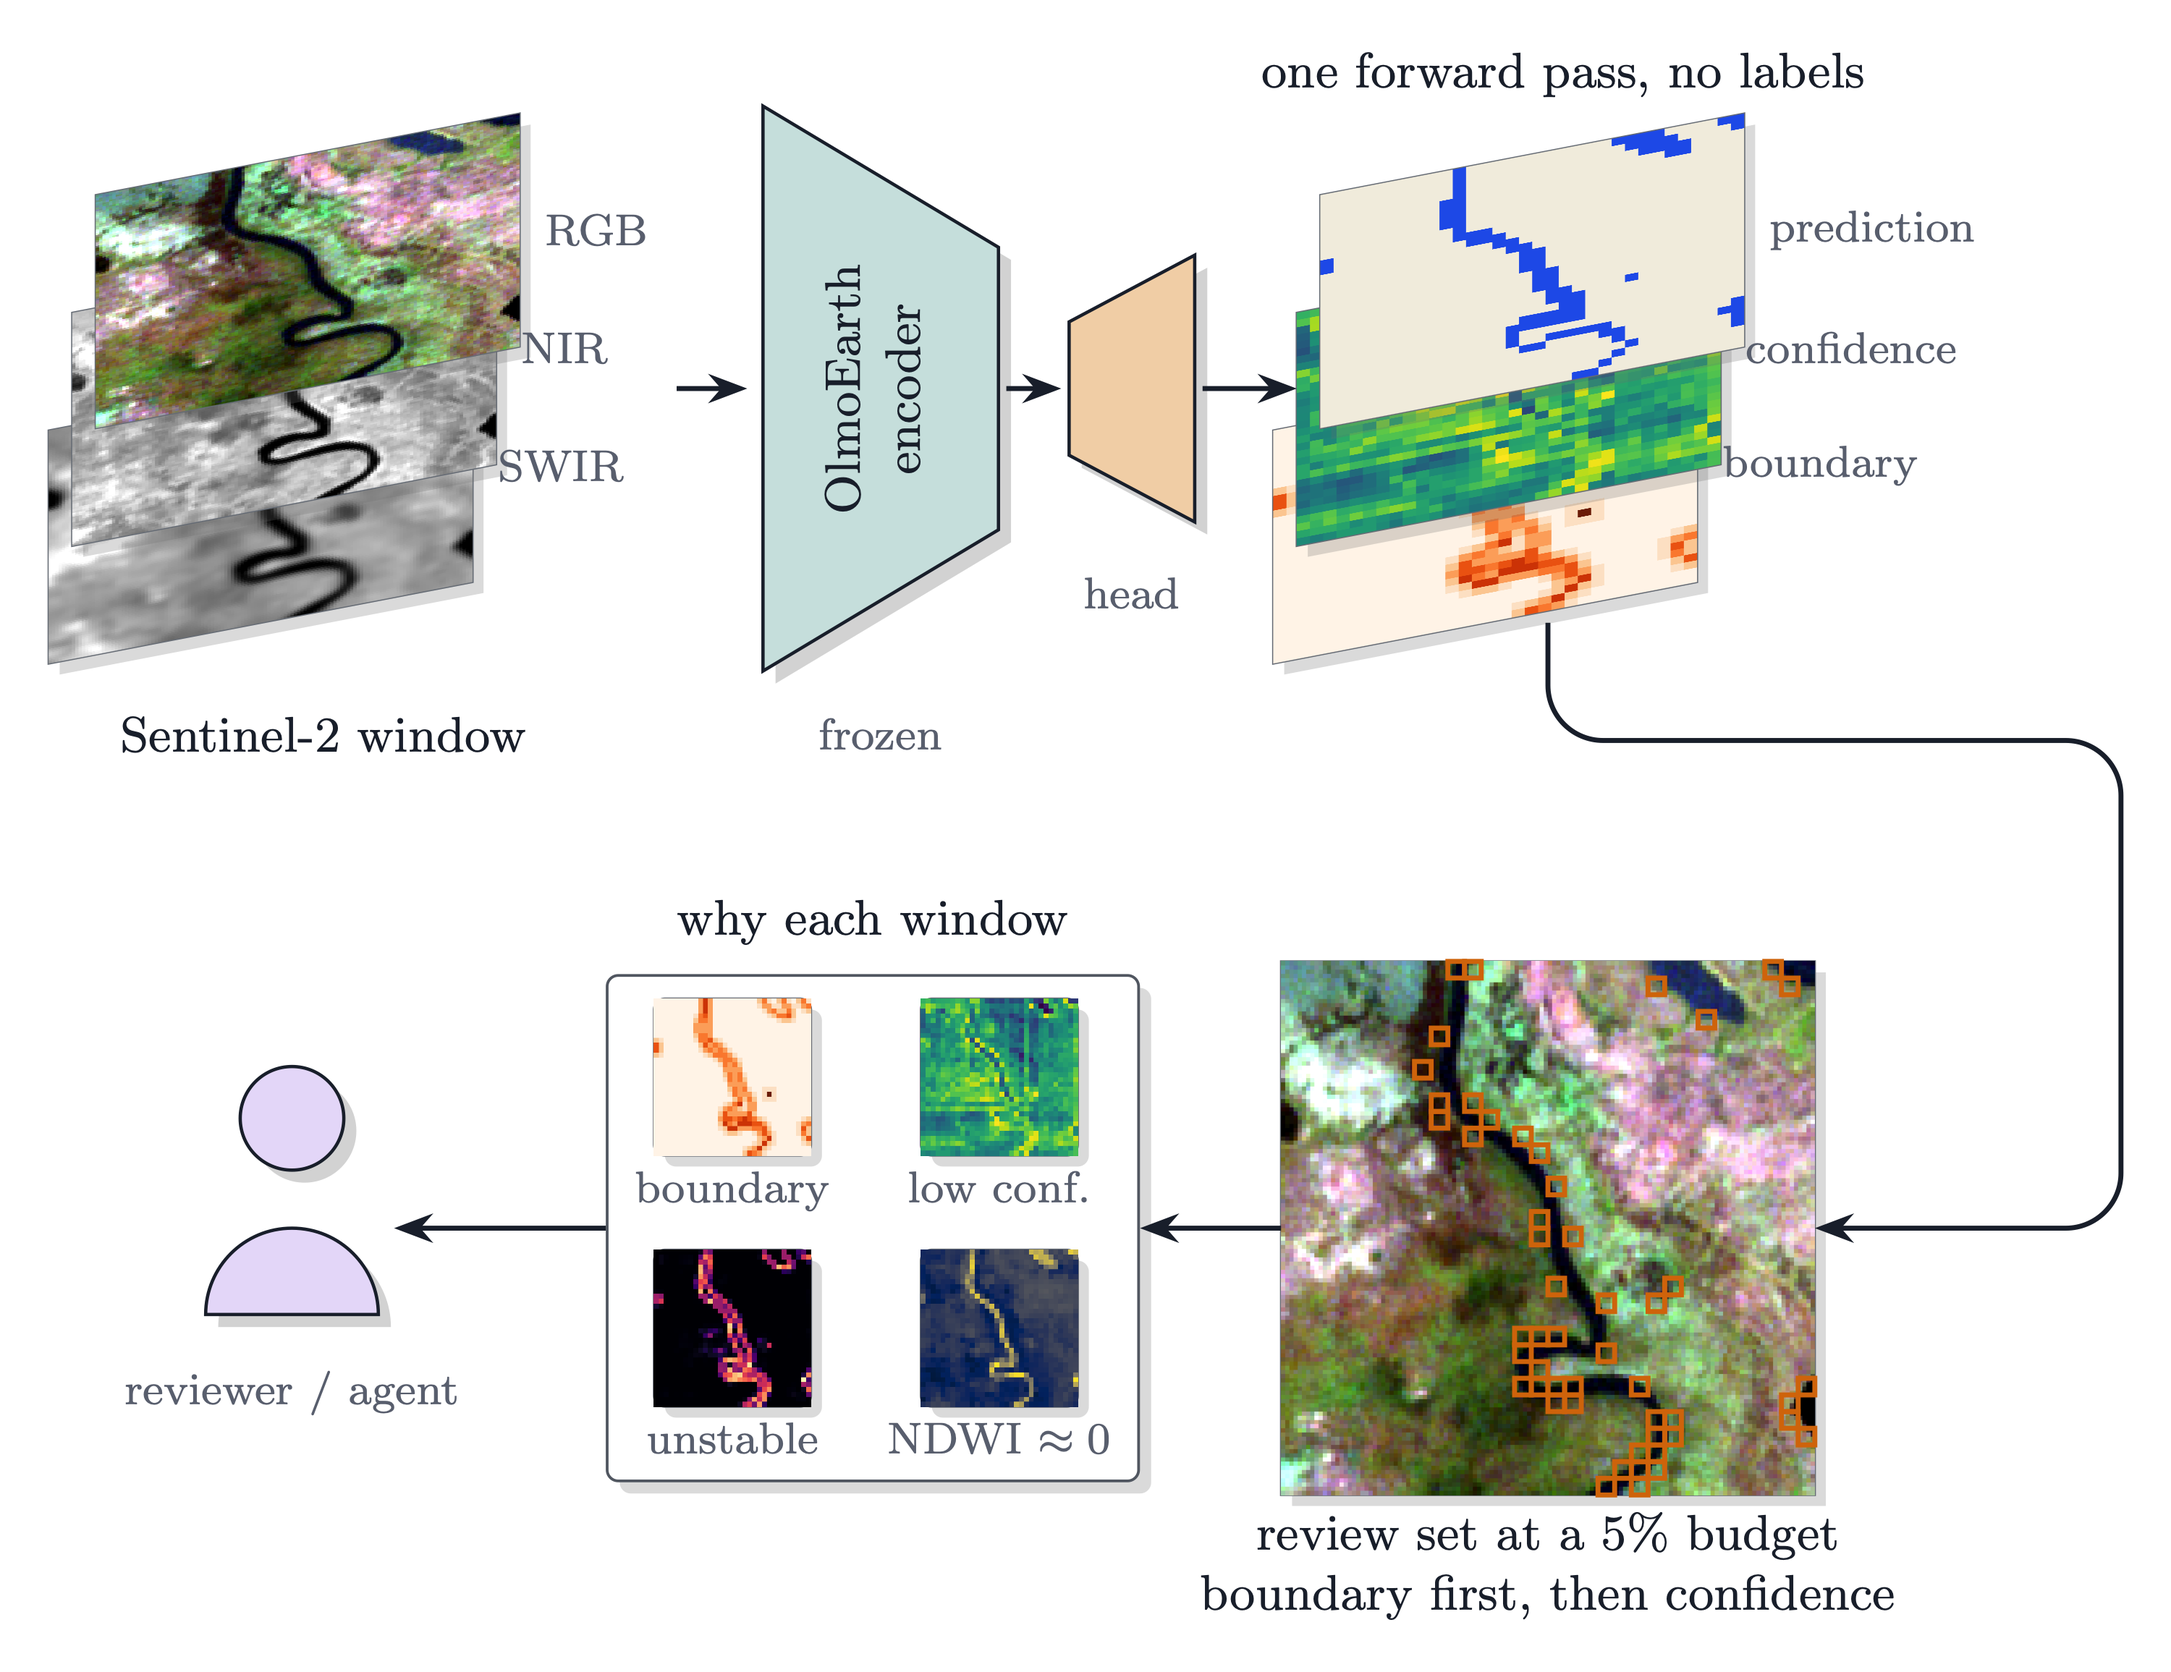
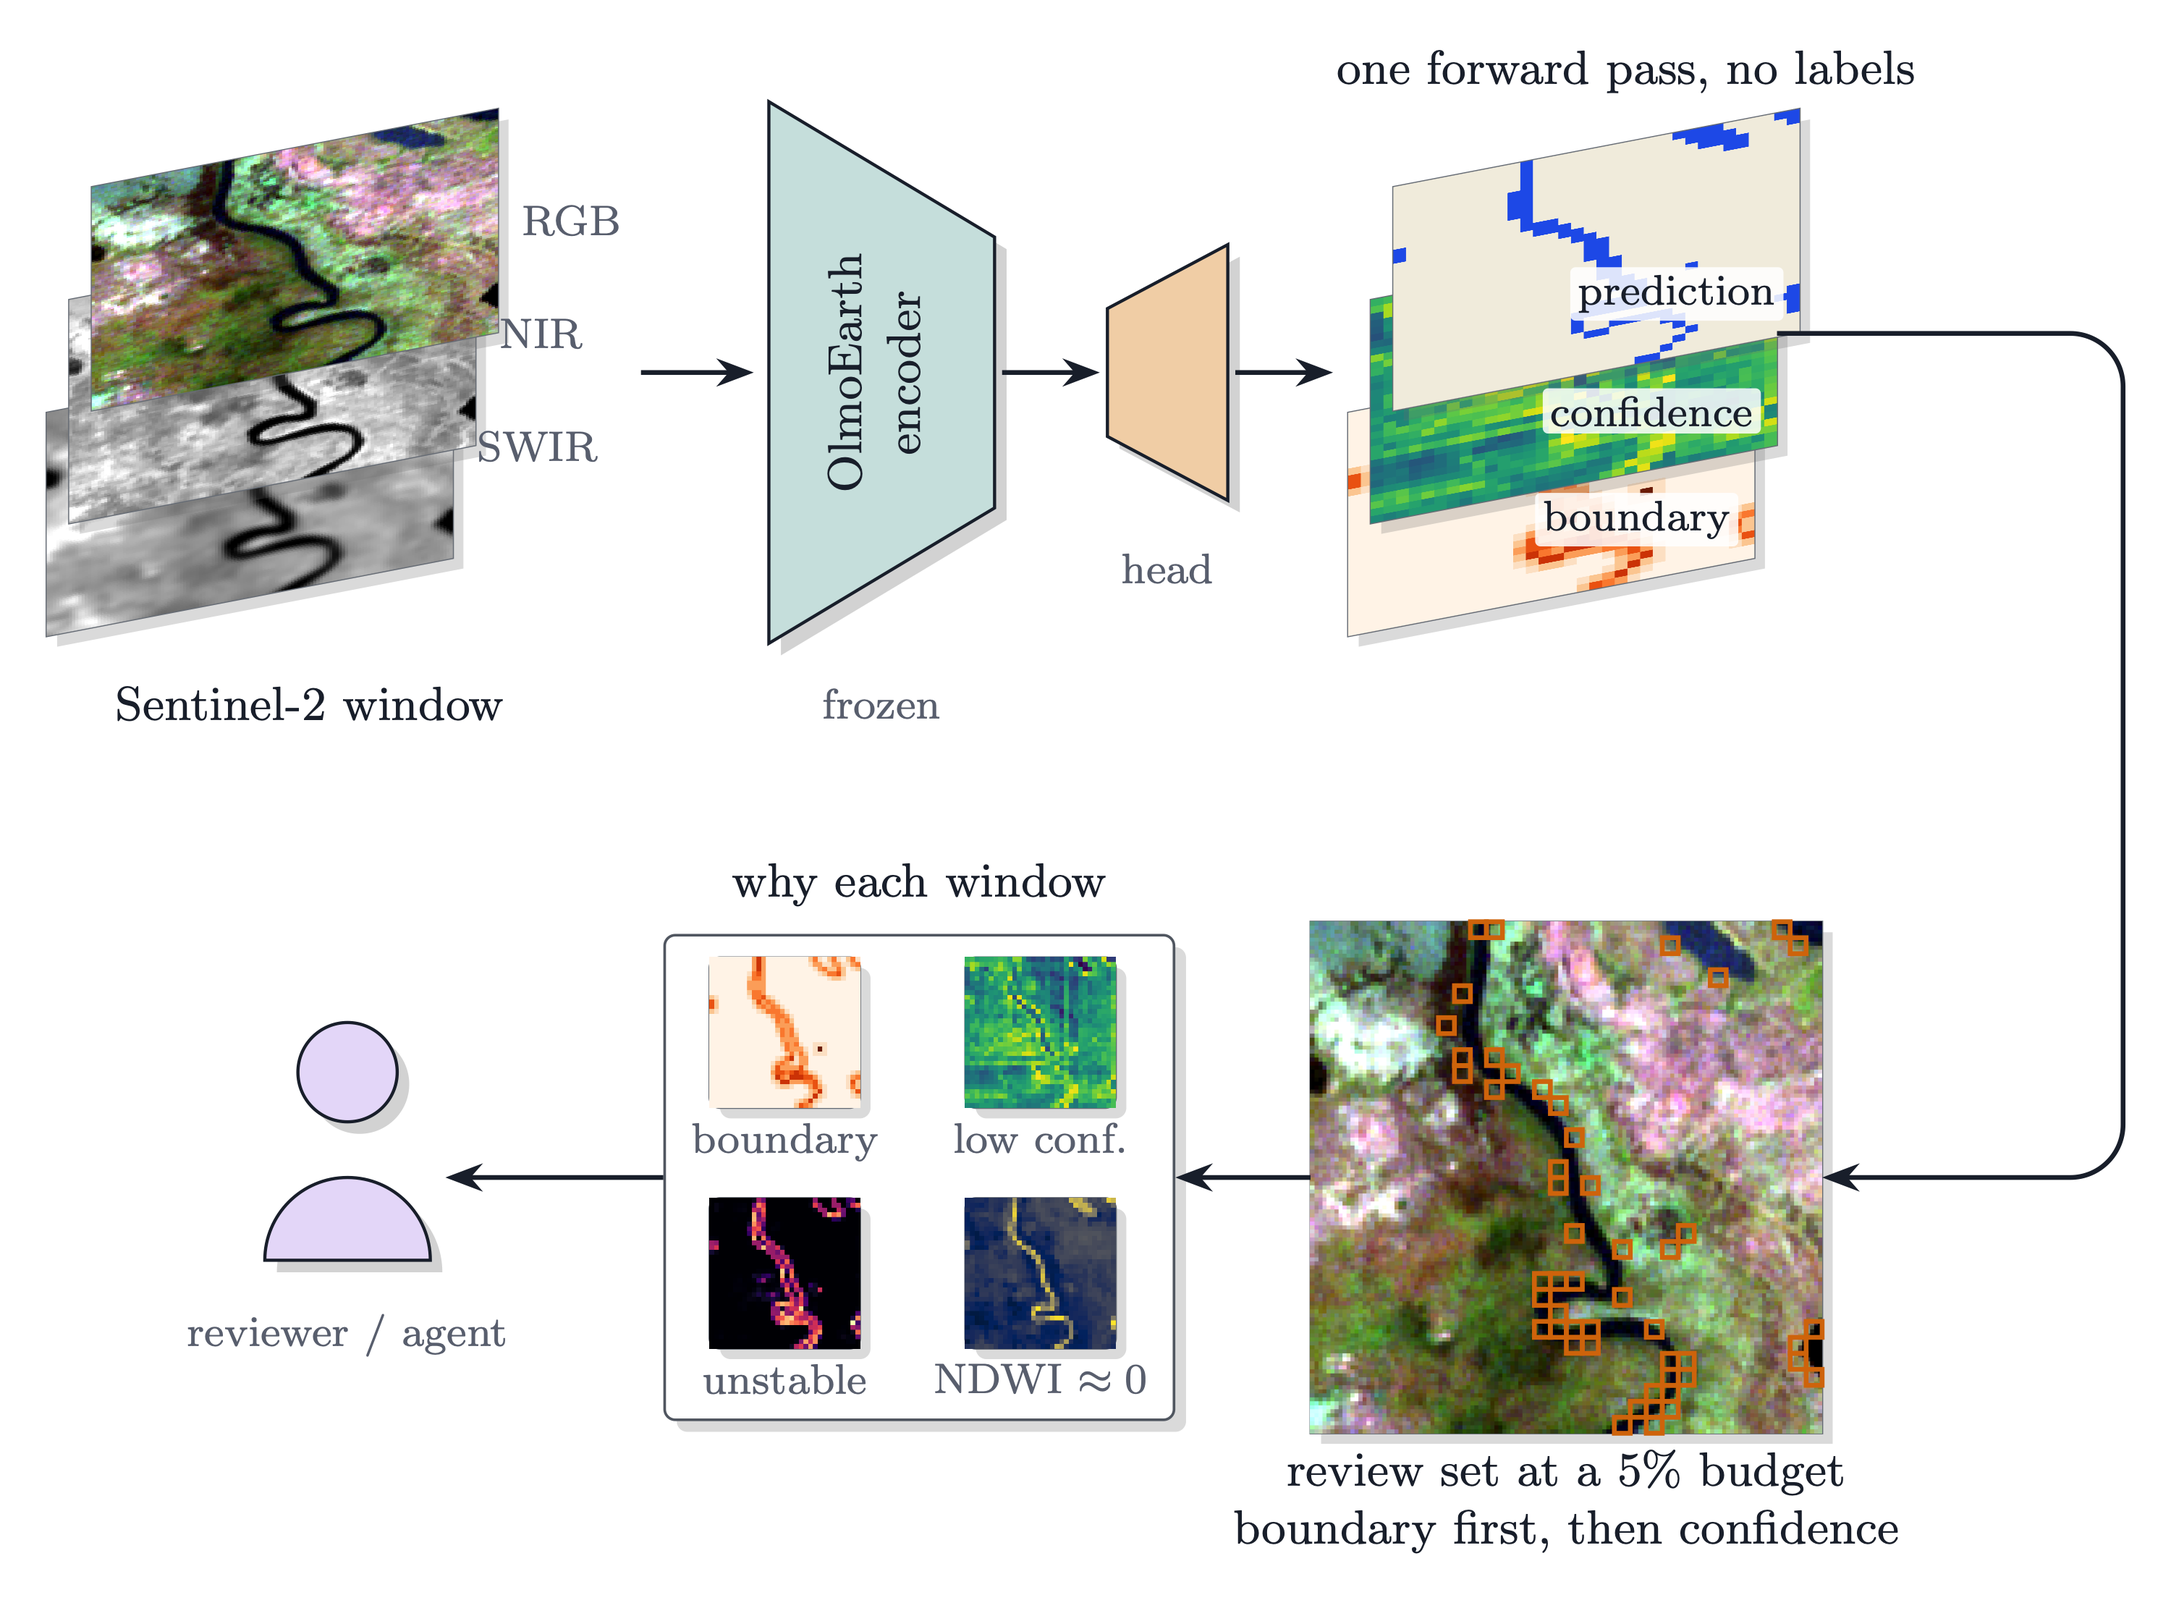
pipeline diagram: loop from the middle of the stack's right side, layer names as tags inside the planes, longer arrows between stack, encoder and head

diff --git a/docs/figures/tikz/audit_pipeline.tex b/docs/figures/tikz/audit_pipeline.tex
@@ -8,35 +8,37 @@
 \input{rasters/scene_review.tex}   % defines \sceneReview as a r/c list
 \setlength{\rw}{2.7cm}
 \tikzset{lab/.style={font=\small, text=ink, inner sep=1pt, align=center},
-         sub/.style={font=\footnotesize, text=muted, inner sep=1pt, align=center}}
+         sub/.style={font=\footnotesize, text=muted, inner sep=1pt, align=center},
+         tag/.style={font=\footnotesize, text=ink, fill=white, fill opacity=0.85, text opacity=1, inner sep=1.5pt, rounded corners=1pt}}
 \begin{document}
 \begin{tikzpicture}
   % ================= row 1: input -> encoder -> head -> outputs
-  \stack{in}{0.7}{5.0}{scene_b11.png}{scene_b08.png}{scene_rgb.png}
+  \stack{in}{0.45}{5.0}{scene_b11.png}{scene_b08.png}{scene_rgb.png}
   \node[sub, anchor=west] at ($(in.east)+(0.12,0)$) {RGB};
   \node[sub, anchor=west] at ($(inmid.east)+(0.12,0)$) {NIR};
   \node[sub, anchor=west] at ($(inback.east)+(0.12,0)$) {SWIR};
-  \node[lab] at (1.1,3.55) {Sentinel-2 window};
+  \node[lab] at (0.85,3.55) {Sentinel-2 window};
   \encoderShape{enc}{3.9}{5.75}{1.5}{3.6}{oeteal!20}
   \node[lab, rotate=90, align=center] at (4.6,5.75) {OlmoEarth\\encoder};
   \node[sub] at (4.65,3.55) {frozen};
-  \decoderShape{head}{5.85}{5.75}{0.8}{1.7}{oeamber!30}
-  \node[sub] at (6.25,4.45) {head};
-  \draw[flow] (3.35,5.75) -- (3.8,5.75);
-  \draw[flow] (5.45,5.75) -- (5.8,5.75);
-  \stack{out}{8.5}{5.0}{scene_boundary.png}{scene_conf.png}{scene_pred.png}
-  \draw[flow] (6.7,5.75) -- (7.3,5.75);
-  \node[sub, anchor=west] at ($(out.east)+(0.12,0)$) {prediction};
-  \node[sub, anchor=west] at ($(outmid.east)+(0.12,0)$) {confidence};
-  \node[sub, anchor=west] at ($(outback.east)+(0.12,0)$) {boundary};
-  \node[lab] at (9.0,7.75) {one forward pass, no labels};
+  \decoderShape{head}{6.15}{5.75}{0.8}{1.7}{oeamber!30}
+  \node[sub] at (6.55,4.45) {head};
+  \draw[flow] (3.05,5.75) -- (3.8,5.75);
+  \draw[flow] (5.45,5.75) -- (6.1,5.75);
+  \stack{out}{9.1}{5.0}{scene_boundary.png}{scene_conf.png}{scene_pred.png}
+  \draw[flow] (7.0,5.75) -- (7.65,5.75);
+  % layer names as tags inside the planes, so the right side stays free for the connector
+  \node[tag, anchor=south east] at ($(out.south east)+(-0.1,0.07)$) {prediction};
+  \node[tag, anchor=south east] at ($(outmid.south east)+(-0.1,0.07)$) {confidence};
+  \node[tag, anchor=south east] at ($(outback.south east)+(-0.1,0.07)$) {boundary};
+  \node[lab] at (9.6,7.75) {one forward pass, no labels};
   % ================= row 2, right to left under the outputs: review set -> reasons -> reviewer (a snake, no wrap-around)
-  \flatraster{rev}{8.9}{0.4}{scene_rgb.png}{3.4cm}
+  \flatraster{rev}{9.2}{0.4}{scene_rgb.png}{3.4cm}
   \flatcells{rev}{32}{cell}{\sceneReview}{3.4cm}
-  \node[lab] at (8.9,-1.75) {review set at a 5\% budget\\ boundary first, then confidence};
-  % rounded loop: down from the centre of the stack, right past the layer labels, down, and into the review set from the right
-  \draw[flow, rounded corners=10pt] (rev.north |- outback.south) -- ++(0,-0.75) -| (12.55,0.4) -- (rev.east);   % from the stack's centre, then the loop
-  \node[card] (why) at (4.6,0.4) {%
+  \node[lab] at (9.2,-1.75) {review set at a 5\% budget\\ boundary first, then confidence};
+  % rounded loop: from the middle of the stack's right side, right, down, and into the review set from the right
+  \draw[flow, rounded corners=10pt] (outmid.east) -| (12.9,0.4) -- (rev.east);   % from the middle of the stack's right side
+  \node[card] (why) at (4.9,0.4) {%
     \begin{tikzpicture}[font=\footnotesize]
       \node[flat] (c1) at (0,0)      {\includegraphics[width=1.0cm]{rasters/scene_boundary.png}};
       \node[flat] (c2) at (1.7,0)    {\includegraphics[width=1.0cm]{rasters/scene_conf.png}};
@@ -47,11 +49,11 @@
       \node[sub, below=0.6mm of c3] {unstable};
       \node[sub, below=0.6mm of c4] {NDWI $\approx 0$};
     \end{tikzpicture}};
-  \node[lab] at (4.6,2.35) {why each window};
+  \node[lab] at (4.9,2.35) {why each window};
   \draw[flow] (rev.west) -- (why.east);
-  \draw[part, fill=oeviolet!15] (0.9,1.1) circle (0.33);
-  \draw[part, fill=oeviolet!15] (0.35,-0.15) arc (180:0:0.55) -- cycle;
-  \node[sub] at (0.9,-0.65) {reviewer / agent};
-  \draw[flow] (why.west) -- (1.55,0.4);
+  \draw[part, fill=oeviolet!15] (1.1,1.1) circle (0.33);
+  \draw[part, fill=oeviolet!15] (0.55,-0.15) arc (180:0:0.55) -- cycle;
+  \node[sub] at (1.1,-0.65) {reviewer / agent};
+  \draw[flow] (why.west) -- (1.75,0.4);
 \end{tikzpicture}
 \end{document}
